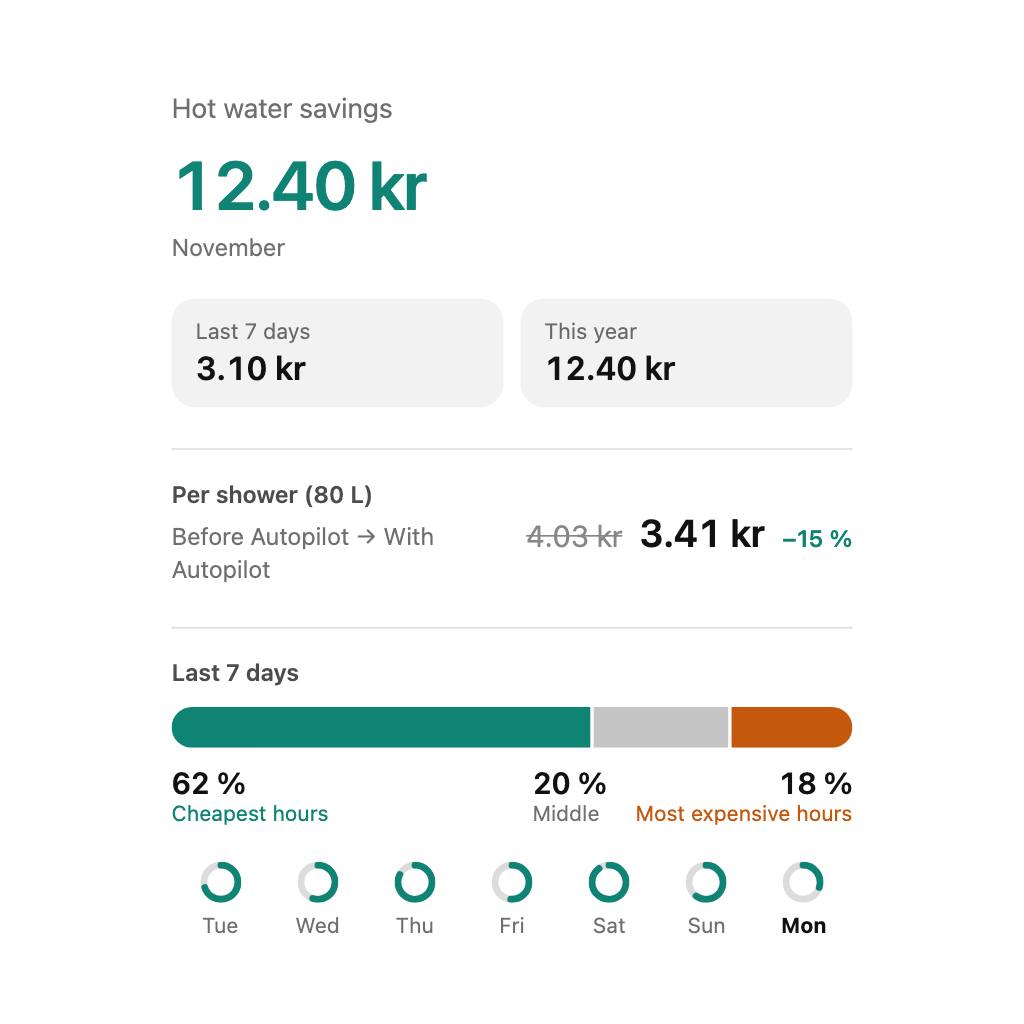
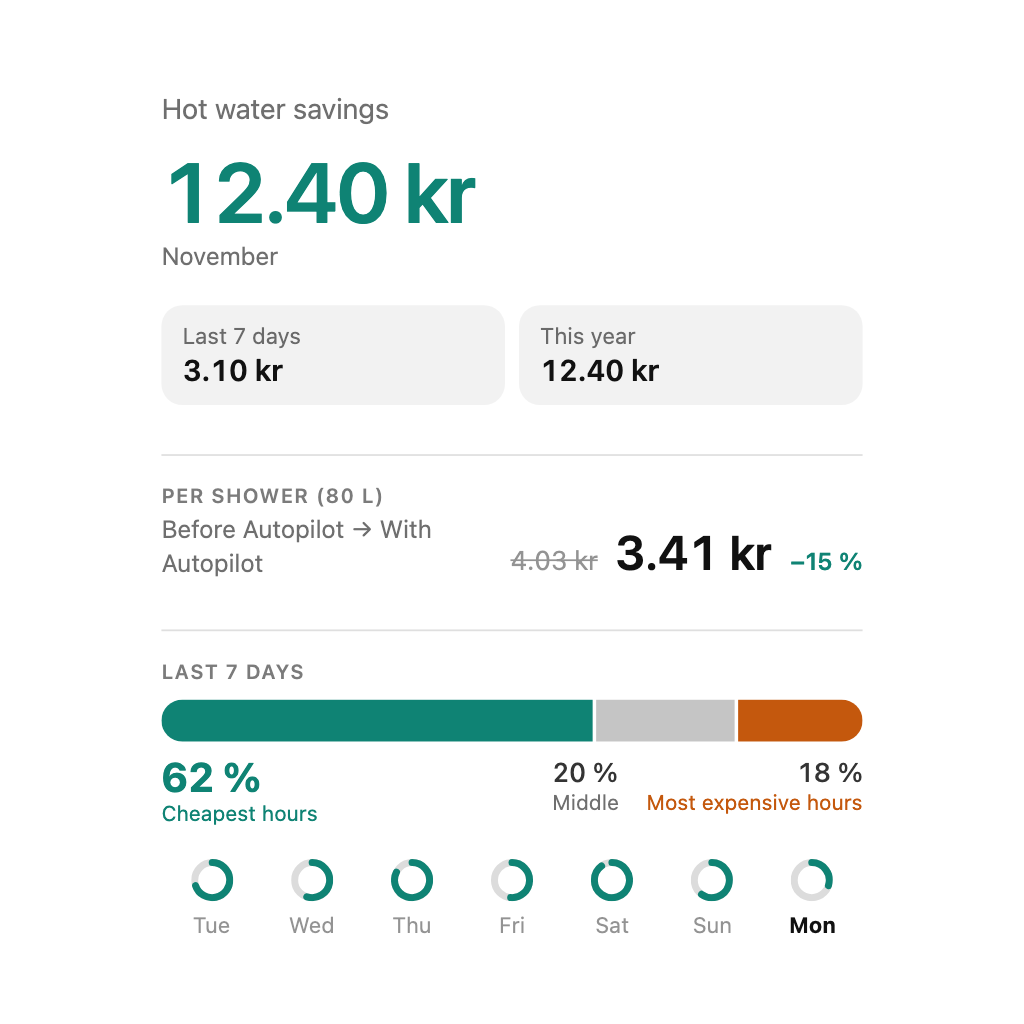
Savings cards: clearer hierarchy; larger figure, quiet section captions, the cheap share leads the bar

diff --git a/widgets/savings/public/index.html b/widgets/savings/public/index.html
@@ -6,40 +6,42 @@
          each picture under a divider. Bars are 24 px, as thick as a line of text. */
       .sv { padding: var(--homey-su-2, 8px) var(--homey-su-3, 12px); }
       .sv-label { margin: 4px 0 0; opacity: 0.6; white-space: nowrap; overflow: hidden; text-overflow: ellipsis; }
-      .sv-hero { margin: 16px 0 0; font-size: 2.5em; line-height: 1; font-weight: 600; letter-spacing: -0.02em; font-variant-numeric: tabular-nums; }
+      .sv-hero { margin: 14px 0 0; font-size: 3em; line-height: 1; font-weight: 600; letter-spacing: -0.02em; font-variant-numeric: tabular-nums; }
       .sv-hero.good { color: var(--sv-cheap); }
       .sv-hero.bad { color: var(--sv-dear); }
-      .sv-caption { margin: 8px 0 0; opacity: 0.6; }
+      .sv-caption { margin: 4px 0 0; opacity: 0.6; }
       .sv-pill { display: inline-flex; align-items: center; gap: 8px; margin: 16px 0 0; padding: 8px 14px; border-radius: 14px; background: var(--sv-tile); font-size: 0.86em; line-height: 1.3; }
       .sv-dot { flex: none; width: 7px; height: 7px; border-radius: 50%; background: var(--sv-cheap); }
-      .sv-tiles { display: grid; grid-template-columns: 1fr 1fr; gap: 10px; margin: 20px 0 0; }
-      .sv-tile { background: var(--sv-tile); border-radius: 14px; padding: 12px 14px; min-width: 0; }
+      .sv-tiles { display: grid; grid-template-columns: 1fr 1fr; gap: 8px; margin: 18px 0 0; }
+      .sv-tile { background: var(--sv-tile); border-radius: 12px; padding: 10px 12px; min-width: 0; }
       .sv-tile-k { font-size: 0.8em; opacity: 0.6; white-space: nowrap; overflow: hidden; text-overflow: ellipsis; }
       .sv-tile-k + .sv-tile-v { margin-top: 2px; }
-      .sv-tile-v { font-size: 1.2em; font-weight: 600; font-variant-numeric: tabular-nums; }
-      .sv-rule { height: 1px; background: var(--sv-rule); margin: 24px 0 18px; }
-      .sv-sub { font-size: 0.86em; font-weight: 600; opacity: 0.75; }
+      .sv-tile-v { font-size: 1.05em; font-weight: 600; font-variant-numeric: tabular-nums; }
+      .sv-rule { height: 1px; background: var(--sv-rule); margin: 28px 0 16px; }
+      .sv-sub { font-size: 0.72em; font-weight: 600; letter-spacing: 0.06em; text-transform: uppercase; opacity: 0.55; }
       .sv-row-head { display: flex; justify-content: space-between; align-items: baseline; gap: 8px; margin: 22px 0 0; }
       .sv-row-head:first-child { margin-top: 0; }
       .sv-row-k { font-weight: 600; font-size: 0.9em; }
       .sv-row-v { font-size: 0.8em; opacity: 0.6; font-variant-numeric: tabular-nums; white-space: nowrap; }
-      .sv-bar { display: flex; gap: 2px; height: 24px; border-radius: 12px; overflow: hidden; margin: 12px 0 0; }
+      .sv-bar { display: flex; gap: 2px; height: 24px; border-radius: 12px; overflow: hidden; margin: 10px 0 0; }
       .sv-bar > div { min-width: 2px; }
       /* One label under each part of the bar: the cheap one from the left edge, the expensive one to
          the right edge, the middle one centred under its own part and kept clear of the other two. */
-      .sv-marks { position: relative; margin: 10px 0 0; }
+      .sv-marks { position: relative; margin: 8px 0 0; }
       .sv-mark { position: absolute; top: 0; white-space: nowrap; }
       .sv-mark.end { text-align: right; }
-      .sv-mark-v { font-size: 1.1em; font-weight: 600; font-variant-numeric: tabular-nums; line-height: 1.2; }
-      .sv-mark-k { font-size: 0.78em; line-height: 1.3; }
-      .sv-shower-row { display: flex; justify-content: space-between; align-items: center; gap: 12px; }
+      .sv-mark-v { font-size: 0.95em; font-weight: 500; opacity: 0.85; font-variant-numeric: tabular-nums; line-height: 1.3; }
+      /* The cheap share is what the bar is for: it leads, the other two follow quietly. */
+      .sv-mark-v.lead { font-size: 1.45em; font-weight: 700; opacity: 1; line-height: 1.1; color: var(--sv-cheap); }
+      .sv-mark-k { font-size: 0.75em; line-height: 1.3; }
+      .sv-shower-row { display: flex; justify-content: space-between; align-items: flex-end; gap: 12px; }
       .sv-shower { display: flex; align-items: baseline; flex-wrap: wrap; flex: none; gap: 10px; white-space: nowrap; }
-      .sv-was { font-size: 1.1em; opacity: 0.5; text-decoration: line-through; font-variant-numeric: tabular-nums; }
-      .sv-now { font-size: 1.4em; font-weight: 600; font-variant-numeric: tabular-nums; }
+      .sv-was { font-size: 0.95em; opacity: 0.45; text-decoration: line-through; font-variant-numeric: tabular-nums; }
+      .sv-now { font-size: 1.7em; font-weight: 600; font-variant-numeric: tabular-nums; }
       .sv-change { font-size: 0.86em; font-weight: 600; }
-      .sv-days { display: grid; margin: 20px 0 0; text-align: center; font-size: 0.78em; }
+      .sv-days { display: grid; margin: 18px 0 0; text-align: center; font-size: 0.78em; }
       .sv-day-col { display: flex; justify-content: center; margin-bottom: 6px; }
-      .sv-day-k { opacity: 0.6; }
+      .sv-day-k { opacity: 0.45; }
       .sv-day-k.today { opacity: 1; font-weight: 700; }
       .sv-legend { display: flex; flex-wrap: wrap; gap: 4px 14px; font-size: 0.78em; opacity: 0.7; margin-top: 18px; }
       .sv-key { display: inline-block; width: 8px; height: 8px; border-radius: 50%; margin-right: 6px; vertical-align: 1px; }
@@ -143,7 +145,7 @@
         var marks = el('div', 'sv-marks'), items = [];
         p.forEach(function (v, i) {
           var m = el('div', 'sv-mark' + (i === 2 ? ' end' : ''));
-          m.appendChild(el('div', 'sv-mark-v', pct(v)));
+          m.appendChild(el('div', 'sv-mark-v' + (i === 0 ? ' lead' : ''), pct(v)));
           if (names && names[i]) {
             var k = el('div', 'sv-mark-k', names[i]);
             k.style.color = i === 1 ? 'inherit' : TIER[i];

diff --git a/widgets/savings_hotwater/public/index.html b/widgets/savings_hotwater/public/index.html
@@ -6,40 +6,42 @@
          each picture under a divider. Bars are 24 px, as thick as a line of text. */
       .sv { padding: var(--homey-su-2, 8px) var(--homey-su-3, 12px); }
       .sv-label { margin: 4px 0 0; opacity: 0.6; white-space: nowrap; overflow: hidden; text-overflow: ellipsis; }
-      .sv-hero { margin: 16px 0 0; font-size: 2.5em; line-height: 1; font-weight: 600; letter-spacing: -0.02em; font-variant-numeric: tabular-nums; }
+      .sv-hero { margin: 14px 0 0; font-size: 3em; line-height: 1; font-weight: 600; letter-spacing: -0.02em; font-variant-numeric: tabular-nums; }
       .sv-hero.good { color: var(--sv-cheap); }
       .sv-hero.bad { color: var(--sv-dear); }
-      .sv-caption { margin: 8px 0 0; opacity: 0.6; }
+      .sv-caption { margin: 4px 0 0; opacity: 0.6; }
       .sv-pill { display: inline-flex; align-items: center; gap: 8px; margin: 16px 0 0; padding: 8px 14px; border-radius: 14px; background: var(--sv-tile); font-size: 0.86em; line-height: 1.3; }
       .sv-dot { flex: none; width: 7px; height: 7px; border-radius: 50%; background: var(--sv-cheap); }
-      .sv-tiles { display: grid; grid-template-columns: 1fr 1fr; gap: 10px; margin: 20px 0 0; }
-      .sv-tile { background: var(--sv-tile); border-radius: 14px; padding: 12px 14px; min-width: 0; }
+      .sv-tiles { display: grid; grid-template-columns: 1fr 1fr; gap: 8px; margin: 18px 0 0; }
+      .sv-tile { background: var(--sv-tile); border-radius: 12px; padding: 10px 12px; min-width: 0; }
       .sv-tile-k { font-size: 0.8em; opacity: 0.6; white-space: nowrap; overflow: hidden; text-overflow: ellipsis; }
       .sv-tile-k + .sv-tile-v { margin-top: 2px; }
-      .sv-tile-v { font-size: 1.2em; font-weight: 600; font-variant-numeric: tabular-nums; }
-      .sv-rule { height: 1px; background: var(--sv-rule); margin: 24px 0 18px; }
-      .sv-sub { font-size: 0.86em; font-weight: 600; opacity: 0.75; }
+      .sv-tile-v { font-size: 1.05em; font-weight: 600; font-variant-numeric: tabular-nums; }
+      .sv-rule { height: 1px; background: var(--sv-rule); margin: 28px 0 16px; }
+      .sv-sub { font-size: 0.72em; font-weight: 600; letter-spacing: 0.06em; text-transform: uppercase; opacity: 0.55; }
       .sv-row-head { display: flex; justify-content: space-between; align-items: baseline; gap: 8px; margin: 22px 0 0; }
       .sv-row-head:first-child { margin-top: 0; }
       .sv-row-k { font-weight: 600; font-size: 0.9em; }
       .sv-row-v { font-size: 0.8em; opacity: 0.6; font-variant-numeric: tabular-nums; white-space: nowrap; }
-      .sv-bar { display: flex; gap: 2px; height: 24px; border-radius: 12px; overflow: hidden; margin: 12px 0 0; }
+      .sv-bar { display: flex; gap: 2px; height: 24px; border-radius: 12px; overflow: hidden; margin: 10px 0 0; }
       .sv-bar > div { min-width: 2px; }
       /* One label under each part of the bar: the cheap one from the left edge, the expensive one to
          the right edge, the middle one centred under its own part and kept clear of the other two. */
-      .sv-marks { position: relative; margin: 10px 0 0; }
+      .sv-marks { position: relative; margin: 8px 0 0; }
       .sv-mark { position: absolute; top: 0; white-space: nowrap; }
       .sv-mark.end { text-align: right; }
-      .sv-mark-v { font-size: 1.1em; font-weight: 600; font-variant-numeric: tabular-nums; line-height: 1.2; }
-      .sv-mark-k { font-size: 0.78em; line-height: 1.3; }
-      .sv-shower-row { display: flex; justify-content: space-between; align-items: center; gap: 12px; }
+      .sv-mark-v { font-size: 0.95em; font-weight: 500; opacity: 0.85; font-variant-numeric: tabular-nums; line-height: 1.3; }
+      /* The cheap share is what the bar is for: it leads, the other two follow quietly. */
+      .sv-mark-v.lead { font-size: 1.45em; font-weight: 700; opacity: 1; line-height: 1.1; color: var(--sv-cheap); }
+      .sv-mark-k { font-size: 0.75em; line-height: 1.3; }
+      .sv-shower-row { display: flex; justify-content: space-between; align-items: flex-end; gap: 12px; }
       .sv-shower { display: flex; align-items: baseline; flex-wrap: wrap; flex: none; gap: 10px; white-space: nowrap; }
-      .sv-was { font-size: 1.1em; opacity: 0.5; text-decoration: line-through; font-variant-numeric: tabular-nums; }
-      .sv-now { font-size: 1.4em; font-weight: 600; font-variant-numeric: tabular-nums; }
+      .sv-was { font-size: 0.95em; opacity: 0.45; text-decoration: line-through; font-variant-numeric: tabular-nums; }
+      .sv-now { font-size: 1.7em; font-weight: 600; font-variant-numeric: tabular-nums; }
       .sv-change { font-size: 0.86em; font-weight: 600; }
-      .sv-days { display: grid; margin: 20px 0 0; text-align: center; font-size: 0.78em; }
+      .sv-days { display: grid; margin: 18px 0 0; text-align: center; font-size: 0.78em; }
       .sv-day-col { display: flex; justify-content: center; margin-bottom: 6px; }
-      .sv-day-k { opacity: 0.6; }
+      .sv-day-k { opacity: 0.45; }
       .sv-day-k.today { opacity: 1; font-weight: 700; }
       .sv-legend { display: flex; flex-wrap: wrap; gap: 4px 14px; font-size: 0.78em; opacity: 0.7; margin-top: 18px; }
       .sv-key { display: inline-block; width: 8px; height: 8px; border-radius: 50%; margin-right: 6px; vertical-align: 1px; }
@@ -143,7 +145,7 @@
         var marks = el('div', 'sv-marks'), items = [];
         p.forEach(function (v, i) {
           var m = el('div', 'sv-mark' + (i === 2 ? ' end' : ''));
-          m.appendChild(el('div', 'sv-mark-v', pct(v)));
+          m.appendChild(el('div', 'sv-mark-v' + (i === 0 ? ' lead' : ''), pct(v)));
           if (names && names[i]) {
             var k = el('div', 'sv-mark-k', names[i]);
             k.style.color = i === 1 ? 'inherit' : TIER[i];
